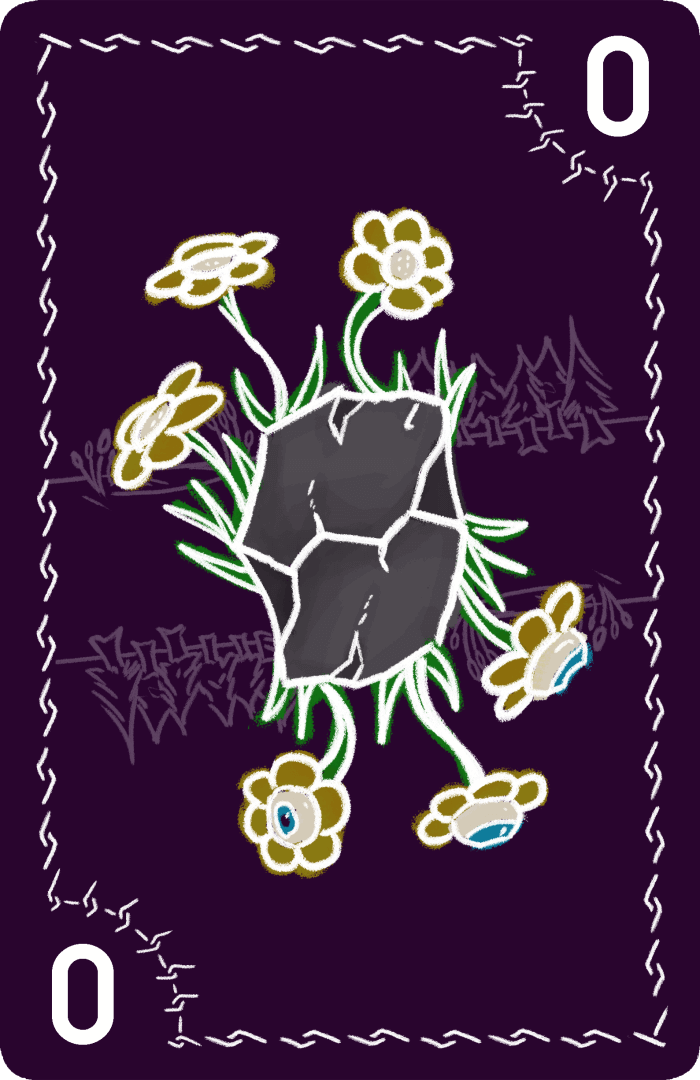
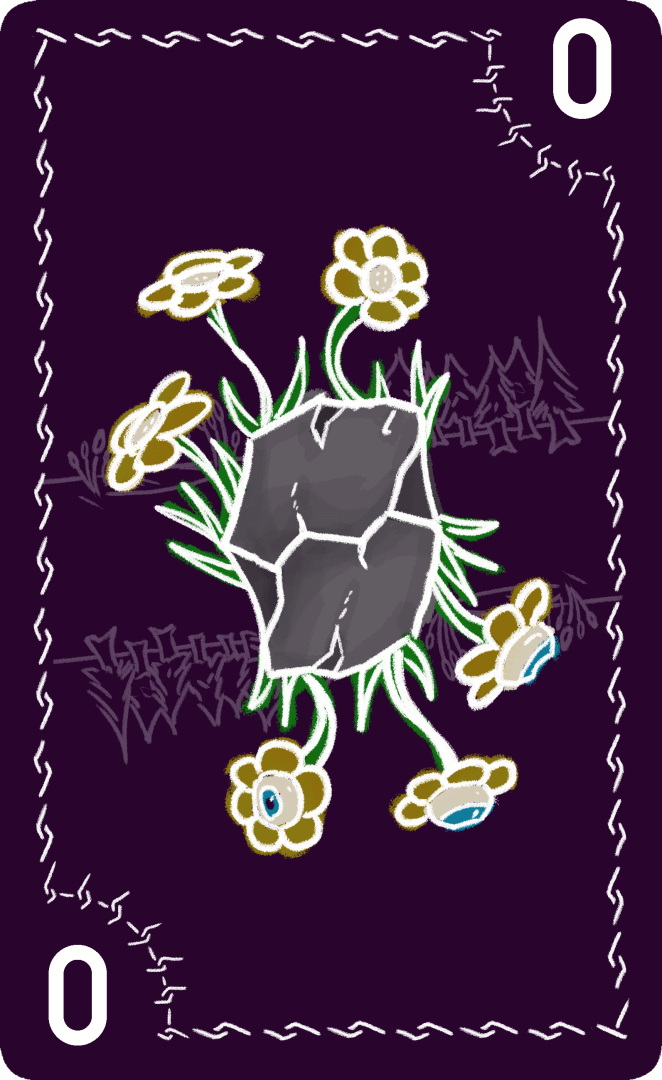
Aspect Ratio Cards

diff --git a/src/js/stores/gameStore.js b/src/js/stores/gameStore.js
@@ -136,21 +136,21 @@ class Card {
       for (let i = 0; i < usedDB.length; i++) {
          this.usedCards.push(new Card (usedDB[i].value,usedDB[i].idCard));
       }
-      this.rolesInMiddle = ["abenteurer", "haendler", "alter-mann", "wanderer", "kobold", "prediger", "gottheit", "buerokrat", "koenig", "bettler"];
+      this.rolesInMiddle = ["gottheit","abenteurer", "haendler", "alter-mann", "wanderer", "kobold", "prediger", "buerokrat", "koenig", "bettler"];
       for(let i = 0; i < this.players.length; i++){
         if(this.rolesInMiddle.includes(this.players[i].playerRole)){
           var index = this.rolesInMiddle.indexOf(this.players[i].playerRole);
-          if (index !== -1) this.rolesInMiddle.splice(index, 1);
+          if (index != -1) this.rolesInMiddle.splice(index, 1);
         }
       }
-      let location1, location2, tmp;
-      for (let i = 0; i < 3000; i++) {
-      location1 = Math.floor((Math.random() * this.rolesInMiddle.length));
-      location2 = Math.floor((Math.random() * this.rolesInMiddle.length));
-      tmp = this.rolesInMiddle[location1];
-      this.rolesInMiddle[location1] = this.rolesInMiddle[location2];
-      this.rolesInMiddle[location2] = tmp;
-      }
+      // let location1, location2, tmp;
+      // for (let i = 0; i < 3000; i++) {
+      // location1 = Math.floor((Math.random() * this.rolesInMiddle.length));
+      // location2 = Math.floor((Math.random() * this.rolesInMiddle.length));
+      // tmp = this.rolesInMiddle[location1];
+      // this.rolesInMiddle[location1] = this.rolesInMiddle[location2];
+      // this.rolesInMiddle[location2] = tmp;
+      // }
     }
     reuseCards(){
         this.cardsInMiddle = this.usedCards;

diff --git a/src/js/components/StackCards.js b/src/js/components/StackCards.js
@@ -11,7 +11,7 @@ class StackCards extends React.Component{
     render() {
       let clickFunction;
 
-      let stackClass = "col-md-6";
+      let stackClass = "col-md-6 stack-"+this.props.stack;
 
       let counter = 1;
       //Load Parts of Deck in {cards}
@@ -63,7 +63,7 @@ class StackCards extends React.Component{
           clickFunction = GameStore.draw;
         }else if( this.props.stack == true && CardStore.stackCard == undefined &&GameStore.round>0 &&GameStore.drawn == 1 && GameStore.gameBoard.players[GameStore.activePlayerIndex].playerRole =="abenteurer"){
             clickFunction = GameStore.draw;
-        }else if(this.props.stack == false && counter == 1 &&  !isNaN(parseInt(card.value))){
+        }else if(GameStore.drawn==0 && this.props.stack == false && counter == 1 &&  !isNaN(parseInt(card.value))){
             clickFunction = GameStore.swapUsedCard.bind(this,CardStore.chosenCard);
         }
         //DoubleCards

diff --git a/src/stylesheets/custom.less b/src/stylesheets/custom.less
@@ -1,4 +1,4 @@
-@cardWidth:2.59em;
+@cardWidth:2.46em;
 @cardHeight:4em;
 @cardMargin:0.5em;
 
@@ -212,11 +212,20 @@ img{
 }
 
 
-.playerCards div.card, .double-card, .stackCards .card:first-child{
+.playerCards div.card, .double-card, .stack-true .stackCards .card:first-child{
     cursor:pointer;
     &:hover{
       margin-top:-3px;
     }
+}
+
+.stack-false .stackCards {
+  & .card-1.value-0, .card-1.value-1, .card-1.value-2, .card-1.value-3, .card-1.value-4, .card-1.value-5, .card-1.value-6, .card-1.value-7, .card-1.value-8, .card-1.value-9{
+      cursor:pointer;
+      &:hover{
+        margin-top:-3px;
+      }
+  }
 }
 
 

diff --git a/src/js/components/GameInfo.js b/src/js/components/GameInfo.js
@@ -43,6 +43,7 @@ export default class GameInfo extends React.Component {
         let endAlert="";
         let gottheitAlert="";
         if(GameStore.endPlayer != ""){
+          console.log("You go here???");
           let tilEnd;
           switch(GameStore.direction){
             case "left":
